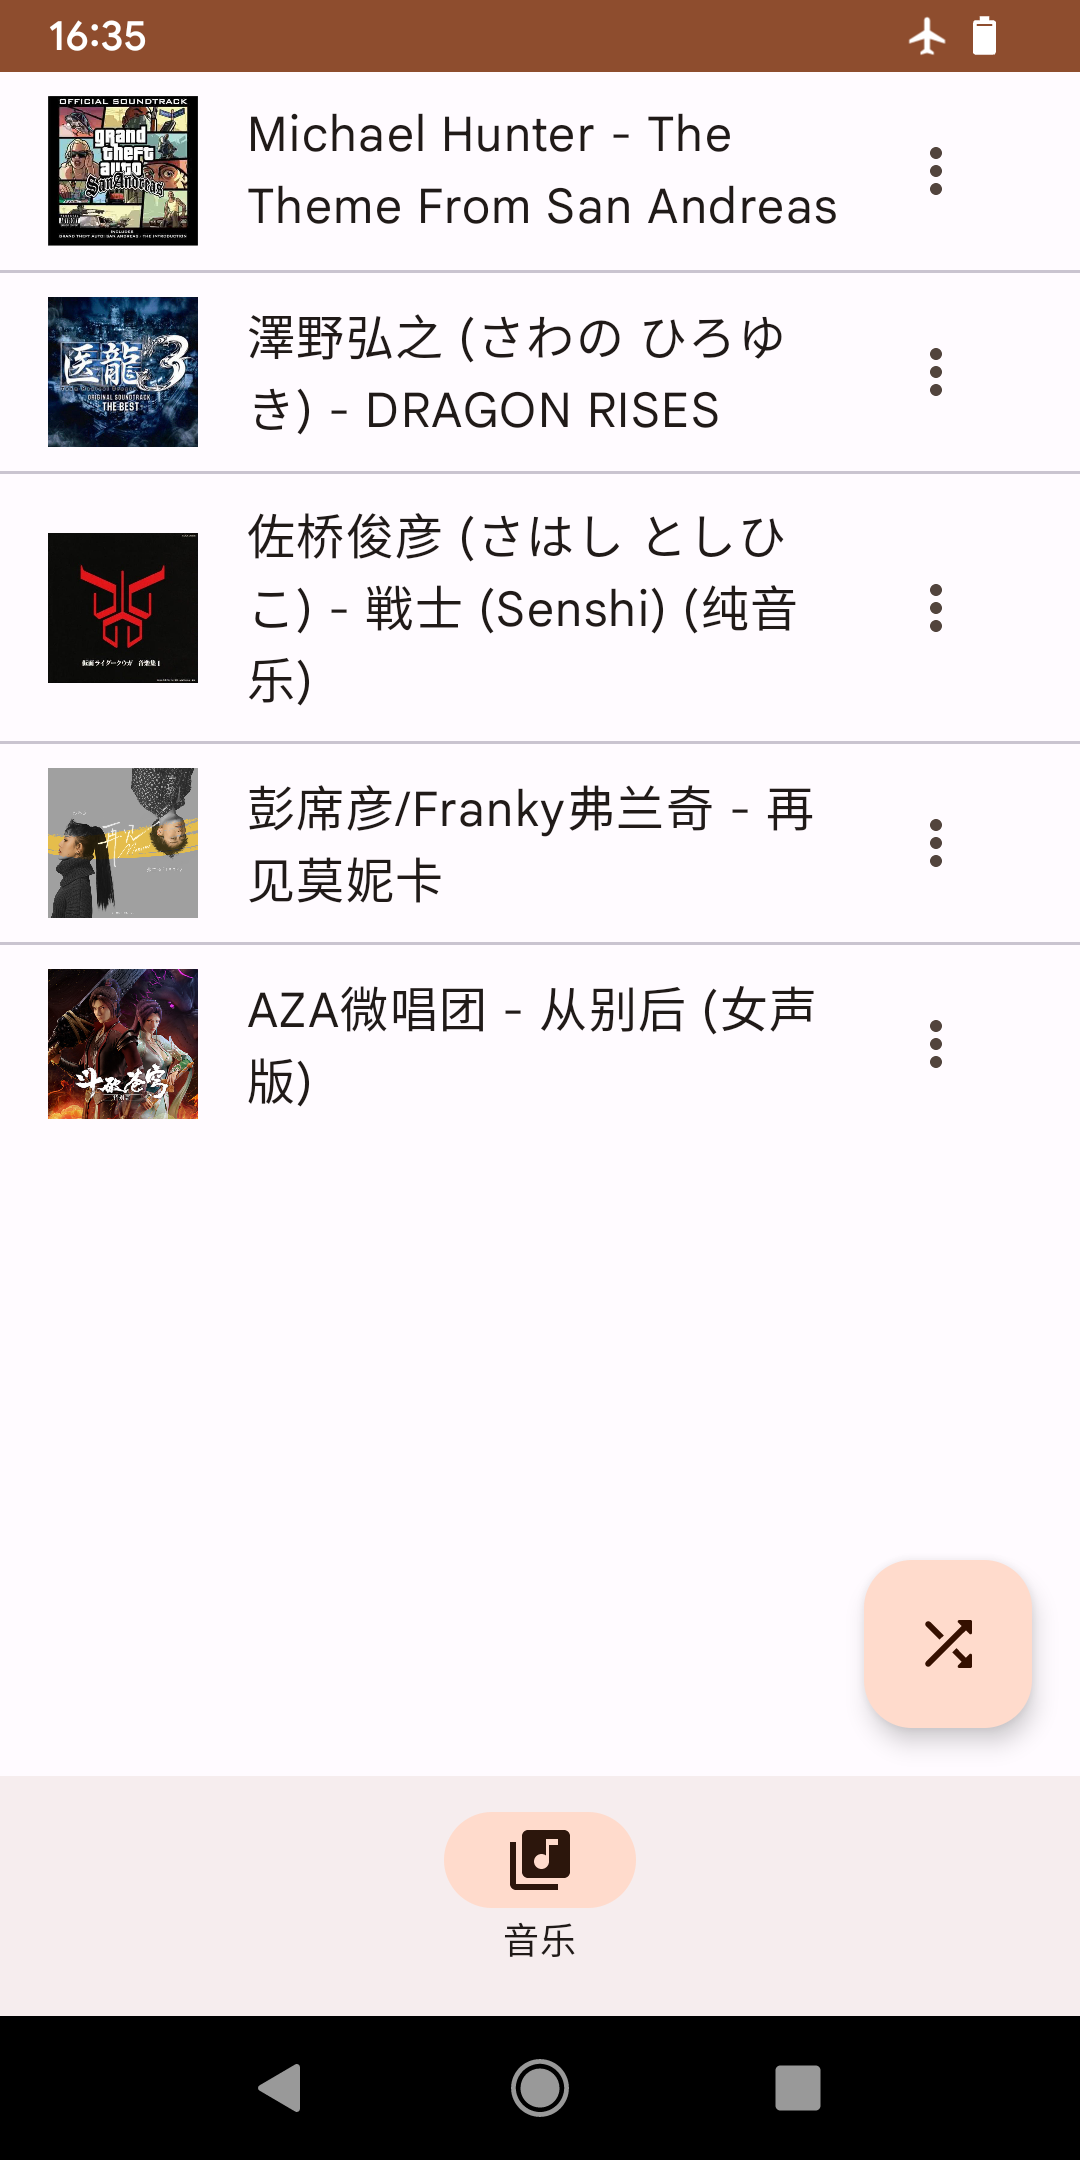
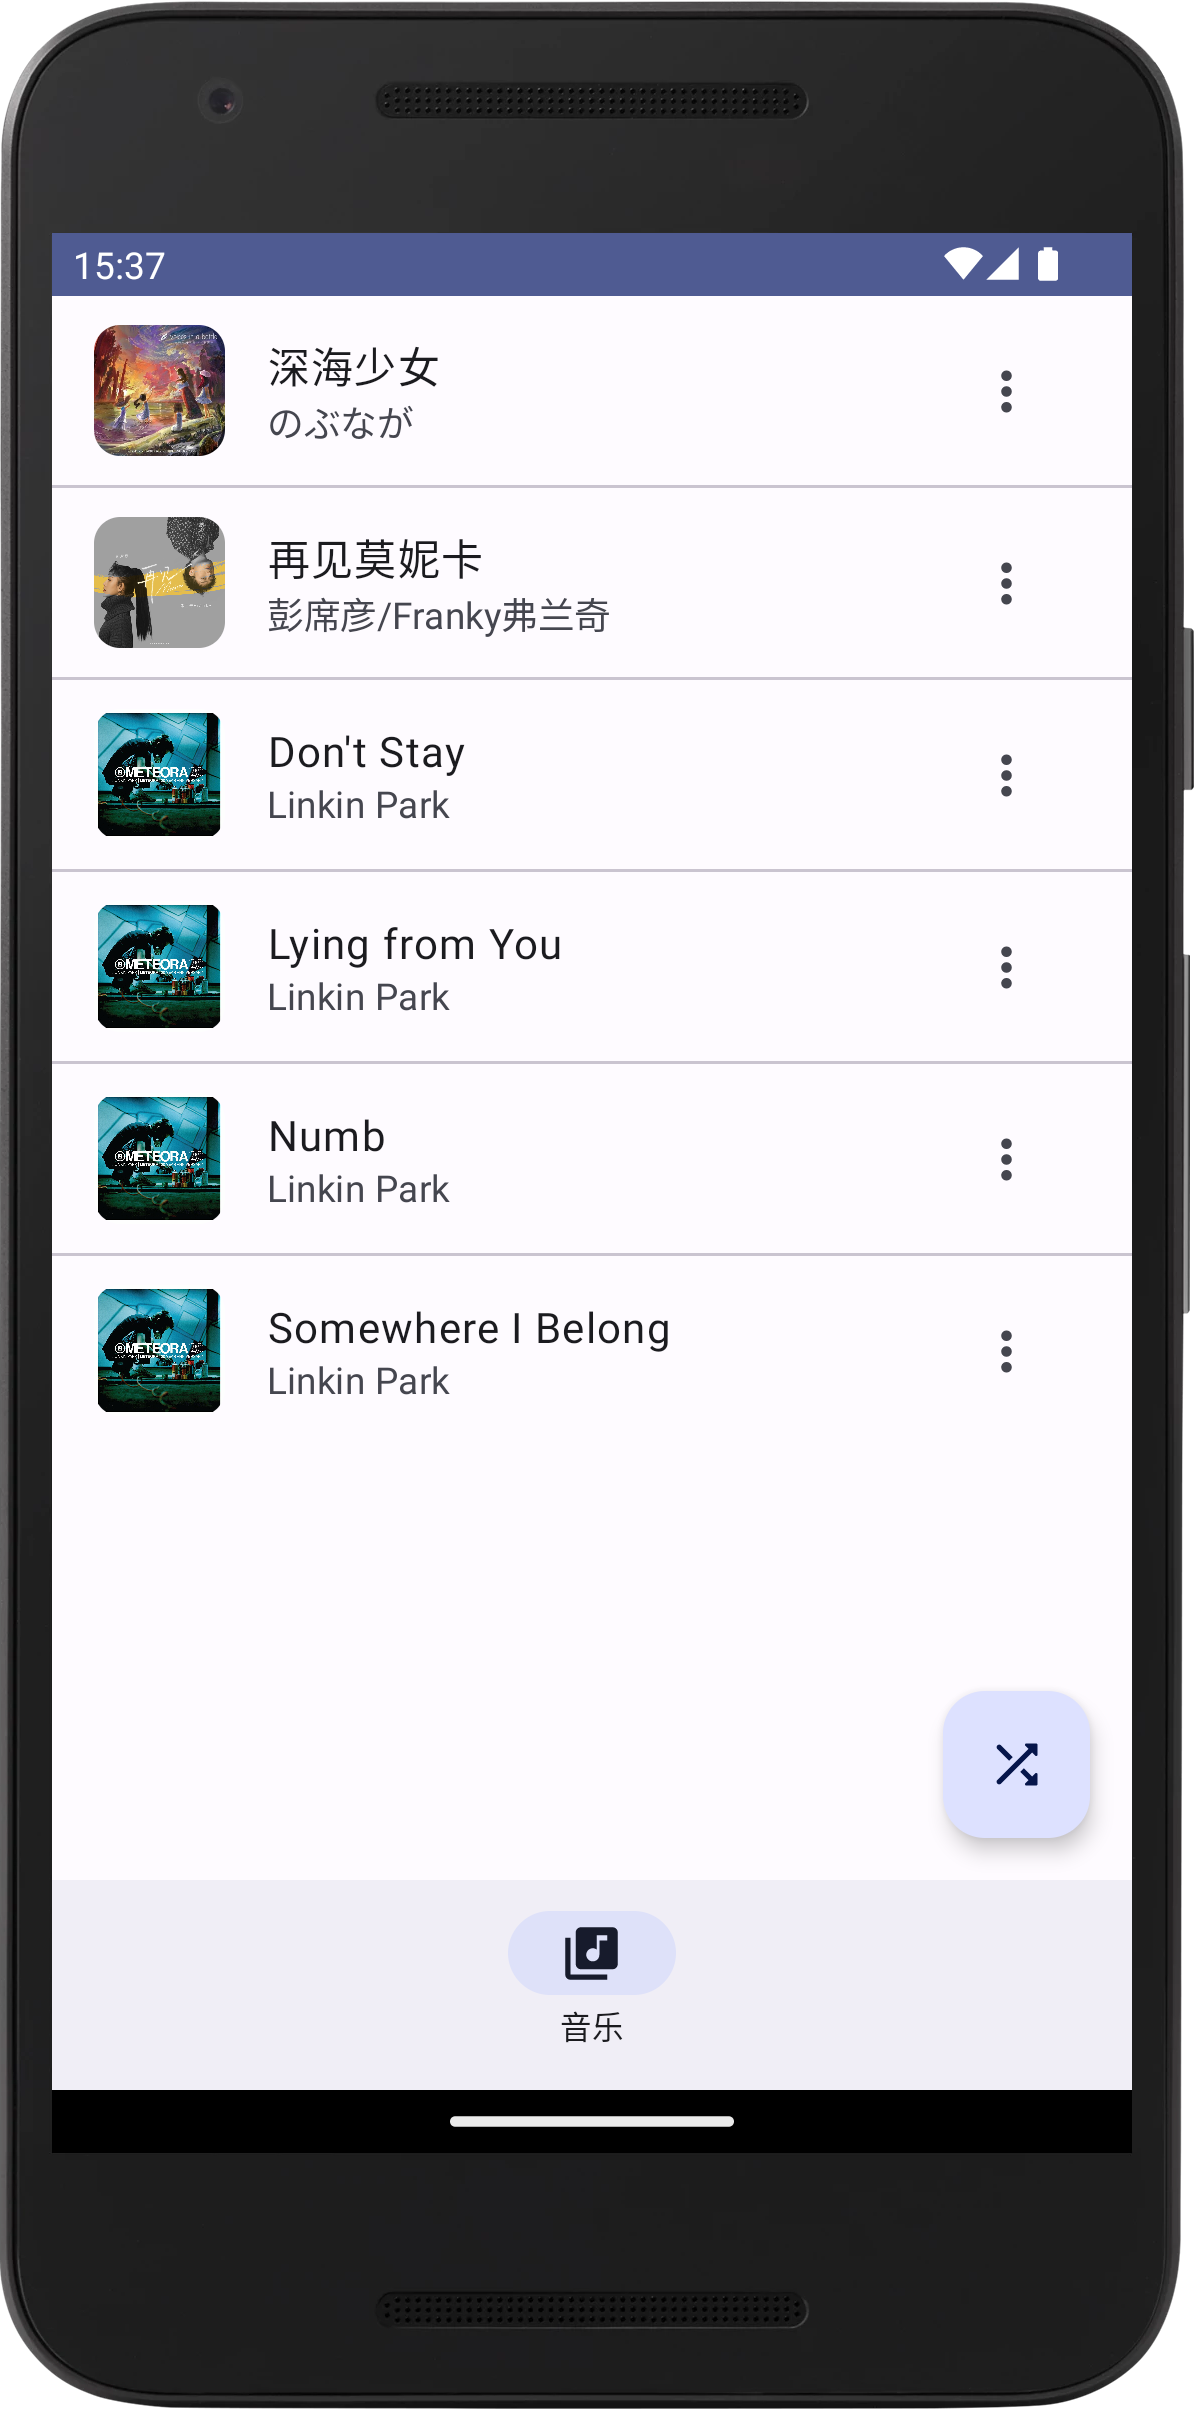
改用 ModalBottomSheet 来显示播放队列；其它一些细节调整；

diff --git a/app/src/main/java/com/risingsun/meteora_c/ui/MeteoraScaffold.kt b/app/src/main/java/com/risingsun/meteora_c/ui/MeteoraScaffold.kt
@@ -1,7 +1,6 @@
-package com.risingsun.meteora_c.ui.audio
+package com.risingsun.meteora_c.ui
 
 import androidx.compose.foundation.layout.padding
-import androidx.compose.material3.ExperimentalMaterial3Api
 import androidx.compose.material3.FloatingActionButton
 import androidx.compose.material3.Icon
 import androidx.compose.material3.Scaffold
@@ -19,8 +18,10 @@ import com.risingsun.meteora_c.data.Audio
 import com.risingsun.meteora_c.data.MeteoraNavigationBarItem
 import com.risingsun.meteora_c.data.NavigationScreen
 import com.risingsun.meteora_c.formattedToMMSS
+import com.risingsun.meteora_c.ui.audio.AudioListScreen
+import com.risingsun.meteora_c.ui.audio.AudioPlayScreen
+import com.risingsun.meteora_c.ui.audio.AudioViewModel
 
-@OptIn(ExperimentalMaterial3Api::class)
 @Composable
 fun MeteoraScaffold(
     navController: NavHostController,
@@ -31,30 +32,31 @@ fun MeteoraScaffold(
 ) {
     val currentBackStackEntry by navController.currentBackStackEntryAsState()
     val currentRoute = currentBackStackEntry?.destination?.route
-    Scaffold(bottomBar = {
-        if (currentRoute != NavigationScreen.AudioPlayScreen.route) {
-            MeteoraNavigationBar(
-                navController = navController, itemList = navigationBarItemList
-            )
-        }
-    }, floatingActionButton = {
-        if (currentRoute == NavigationScreen.AudioListScreen.route) {
-            FloatingActionButton(onClick = { playbackWithShuffleMode.invoke() }) {
-                Icon(
-                    painter = painterResource(id = R.drawable.round_shuffle_24),
-                    contentDescription = "随机播放"
+    Scaffold(
+        bottomBar = {
+            if (currentRoute != NavigationScreen.AudioPlayScreen.route) {
+                MeteoraNavigationBar(
+                    navController = navController,
+                    itemList = navigationBarItemList
                 )
             }
-        }
-    }) {
+        }, floatingActionButton = {
+            if (currentRoute == NavigationScreen.AudioListScreen.route) {
+                FloatingActionButton(onClick = { playbackWithShuffleMode.invoke() }) {
+                    Icon(
+                        painter = painterResource(
+                            id = R.drawable.round_shuffle_24
+                        ), contentDescription = "随机播放"
+                    )
+                }
+            }
+        }) {
         NavHost(
             navController = navController,
             startDestination = NavigationScreen.AudioListScreen.route,
             modifier = Modifier.padding(it)
         ) {
-            composable(
-                route = NavigationScreen.AudioListScreen.route
-            ) {
+            composable(route = NavigationScreen.AudioListScreen.route) {
                 AudioListScreen(audioList = audioList, onItemClick = { audio ->
                     audioViewModel.playAudio(audio)
                 }, onNavigateToPlayScreen = {
@@ -62,7 +64,8 @@ fun MeteoraScaffold(
                 })
             }
             composable(route = NavigationScreen.AudioPlayScreen.route) {
-                AudioPlayScreen(audio = audioViewModel.currentPlaying.value,
+                AudioPlayScreen(
+                    audio = audioViewModel.currentPlaying.value,
                     currentPlaybackPosition = audioViewModel.playbackPositionFormat,
                     sliderProgress = audioViewModel.currentAudioProgress.value,
                     onProgressChange = { progress ->
@@ -86,12 +89,8 @@ fun MeteoraScaffold(
                     openShuffleMode = { set ->
                         audioViewModel.setShuffleMode(set)
                     },
-                    navigateToQueueScreen = {
-                        navController.navigate(NavigationScreen.PlaybackQueueScreen.route)
-                    })
-            }
-            composable(route = NavigationScreen.PlaybackQueueScreen.route) {
-                PlaybackQueueScreen(audioViewModel.playbackQueue!!)
+                    playbackQueue = audioViewModel.playbackQueue!!
+                )
             }
         }
     }

diff --git a/app/src/main/java/com/risingsun/meteora_c/ui/audio/AudioPlayScreen.kt b/app/src/main/java/com/risingsun/meteora_c/ui/audio/AudioPlayScreen.kt
@@ -1,5 +1,6 @@
 package com.risingsun.meteora_c.ui.audio
 
+import android.support.v4.media.session.MediaSessionCompat
 import androidx.compose.foundation.Image
 import androidx.compose.foundation.layout.Arrangement
 import androidx.compose.foundation.layout.Column
@@ -9,11 +10,18 @@ import androidx.compose.foundation.layout.fillMaxWidth
 import androidx.compose.foundation.layout.padding
 import androidx.compose.foundation.layout.size
 import androidx.compose.foundation.shape.RoundedCornerShape
+import androidx.compose.material3.ExperimentalMaterial3Api
 import androidx.compose.material3.Icon
 import androidx.compose.material3.IconButton
+import androidx.compose.material3.ModalBottomSheet
 import androidx.compose.material3.Slider
 import androidx.compose.material3.Text
+import androidx.compose.material3.rememberModalBottomSheetState
 import androidx.compose.runtime.Composable
+import androidx.compose.runtime.getValue
+import androidx.compose.runtime.mutableStateOf
+import androidx.compose.runtime.saveable.rememberSaveable
+import androidx.compose.runtime.setValue
 import androidx.compose.ui.Alignment
 import androidx.compose.ui.Modifier
 import androidx.compose.ui.draw.clip
@@ -27,6 +35,7 @@ import androidx.compose.ui.unit.sp
 import com.risingsun.meteora_c.R
 import com.risingsun.meteora_c.data.Audio
 
+@OptIn(ExperimentalMaterial3Api::class)
 @Composable
 fun AudioPlayScreen(
     audio: Audio?,
@@ -42,7 +51,7 @@ fun AudioPlayScreen(
     onBack: () -> Unit,
     isShuffleModeOn: Boolean,
     openShuffleMode: (Boolean) -> Unit,
-    navigateToQueueScreen: () -> Unit
+    playbackQueue: List<MediaSessionCompat.QueueItem>
 ) {
     audio?.let { currentPlayAudio ->
         Column(modifier = Modifier.fillMaxSize()) {
@@ -160,14 +169,24 @@ fun AudioPlayScreen(
                         modifier = Modifier.size(40.dp)
                     )
                 }
+                var openBottomSheet by rememberSaveable { mutableStateOf(false) }
                 IconButton(
-                    onClick = { navigateToQueueScreen.invoke() }, modifier = Modifier.weight(1f)
+                    onClick = { openBottomSheet = !openBottomSheet },
+                    modifier = Modifier.weight(1f)
                 ) {
                     Icon(
                         painter = painterResource(id = R.drawable.round_queue_music_24),
                         contentDescription = "播放队列",
                         modifier = Modifier.size(30.dp)
                     )
+                }
+                if (openBottomSheet) {
+                    ModalBottomSheet(
+                        onDismissRequest = { openBottomSheet = false },
+                        sheetState = rememberModalBottomSheetState(skipPartiallyExpanded = true)
+                    ) {
+                        PlaybackQueueScreen(queue = playbackQueue)
+                    }
                 }
             }
         }

diff --git a/app/src/main/java/com/risingsun/meteora_c/ui/audio/AudioListScreen.kt b/app/src/main/java/com/risingsun/meteora_c/ui/audio/AudioListScreen.kt
@@ -1,9 +1,11 @@
 package com.risingsun.meteora_c.ui.audio
 
+import androidx.compose.foundation.Image
 import androidx.compose.foundation.clickable
 import androidx.compose.foundation.layout.size
 import androidx.compose.foundation.lazy.LazyColumn
 import androidx.compose.foundation.lazy.items
+import androidx.compose.foundation.shape.RoundedCornerShape
 import androidx.compose.material3.Divider
 import androidx.compose.material3.Icon
 import androidx.compose.material3.IconButton
@@ -11,30 +13,33 @@ import androidx.compose.material3.ListItem
 import androidx.compose.material3.Text
 import androidx.compose.runtime.Composable
 import androidx.compose.ui.Modifier
-import androidx.compose.ui.graphics.Color
+import androidx.compose.ui.draw.clip
 import androidx.compose.ui.graphics.asImageBitmap
 import androidx.compose.ui.res.painterResource
 import androidx.compose.ui.unit.dp
-import com.risingsun.meteora_c.R.*
+import com.risingsun.meteora_c.R.drawable
 import com.risingsun.meteora_c.data.Audio
 
 @Composable
 fun AudioListScreen(
-    audioList: List<Audio>, onItemClick: (Audio) -> Unit, onNavigateToPlayScreen: () -> Unit
+    audioList: List<Audio>,
+    onItemClick: (Audio) -> Unit,
+    onNavigateToPlayScreen: () -> Unit
 ) {
     LazyColumn {
         items(audioList) {
-            ListItem(headlineContent = { Text(text = "${it.artist} - ${it.title}") },
+            ListItem(
+                headlineContent = { Text(text = it.title, maxLines = 1) },
                 modifier = Modifier.clickable {
-                    onItemClick.invoke(it)
-                    onNavigateToPlayScreen.invoke()
+                    onItemClick(it)
+                    onNavigateToPlayScreen()
                 },
+                supportingContent = { Text(text = it.artist, maxLines = 1) },
                 leadingContent = {
-                    Icon(
+                    Image(
                         bitmap = it.albumCover.asImageBitmap(),
                         contentDescription = "专辑封面",
-                        modifier = Modifier.size(50.dp, 50.dp),
-                        tint = Color.Unspecified
+                        modifier = Modifier.size(50.dp).clip(RoundedCornerShape(10.dp))
                     )
                 },
                 trailingContent = {

diff --git a/app/src/main/java/com/risingsun/meteora_c/ui/audio/PlaybackQueueScreen.kt b/app/src/main/java/com/risingsun/meteora_c/ui/audio/PlaybackQueueScreen.kt
@@ -1,21 +1,29 @@
 package com.risingsun.meteora_c.ui.audio
 
 import android.support.v4.media.session.MediaSessionCompat.QueueItem
+import androidx.compose.foundation.clickable
+import androidx.compose.foundation.layout.Arrangement
+import androidx.compose.foundation.layout.Row
 import androidx.compose.foundation.layout.fillMaxSize
+import androidx.compose.foundation.layout.fillMaxWidth
 import androidx.compose.foundation.lazy.LazyColumn
 import androidx.compose.foundation.lazy.items
-import androidx.compose.material3.ExperimentalMaterial3Api
 import androidx.compose.material3.ListItem
 import androidx.compose.material3.Text
 import androidx.compose.runtime.Composable
 import androidx.compose.ui.Modifier
+import androidx.compose.ui.unit.sp
 
-@OptIn(ExperimentalMaterial3Api::class)
 @Composable
 fun PlaybackQueueScreen(queue: List<QueueItem>) {
+    Row(modifier = Modifier.fillMaxWidth(), horizontalArrangement = Arrangement.Center) {
+        Text(text = "播放队列", fontSize = 24.sp)
+    }
     LazyColumn(modifier = Modifier.fillMaxSize()) {
         items(queue) {
-            ListItem(headlineContent = { Text(text = "${it.description.title}") })
+            ListItem(
+                headlineContent = { Text(text = "${it.description.title}") },
+                modifier = Modifier.clickable { })
         }
     }
 }

diff --git a/app/src/main/java/com/risingsun/meteora_c/MainActivity.kt b/app/src/main/java/com/risingsun/meteora_c/MainActivity.kt
@@ -16,7 +16,7 @@ import com.risingsun.meteora_c.data.MeteoraNavigationBarItem
 import com.risingsun.meteora_c.data.NavigationScreen
 import com.risingsun.meteora_c.ui.PermissionRequestScreen
 import com.risingsun.meteora_c.ui.audio.AudioViewModel
-import com.risingsun.meteora_c.ui.audio.MeteoraScaffold
+import com.risingsun.meteora_c.ui.MeteoraScaffold
 import com.risingsun.meteora_c.ui.theme.MeteoraCTheme
 import dagger.hilt.android.AndroidEntryPoint
 import java.util.*

diff --git a/app/src/main/java/com/risingsun/meteora_c/data/NavigationScreen.kt b/app/src/main/java/com/risingsun/meteora_c/data/NavigationScreen.kt
@@ -3,5 +3,4 @@ package com.risingsun.meteora_c.data
 sealed class NavigationScreen(val route: String) {
     object AudioListScreen : NavigationScreen("audio_list_screen")
     object AudioPlayScreen : NavigationScreen("audio_play_screen")
-    object PlaybackQueueScreen : NavigationScreen("playback_queue_screen")
 }

diff --git a/app/src/main/java/com/risingsun/meteora_c/ui/MeteoraNavigationBar.kt b/app/src/main/java/com/risingsun/meteora_c/ui/MeteoraNavigationBar.kt
@@ -1,4 +1,4 @@
-package com.risingsun.meteora_c.ui.audio
+package com.risingsun.meteora_c.ui
 
 import androidx.compose.material3.NavigationBar
 import androidx.compose.material3.NavigationBarItem

diff --git a/README.md b/README.md
@@ -11,5 +11,5 @@
 ## Screenshots
 
 | ![音乐列表](Screenshots/Music_list.png) | ![播放界面](Screenshots/Player.png) |
-|-------------------------------------|---------------------------------|
-| 音乐列表                                | 播放界面                            |
+|:-----------------------------------:|:-------------------------------:|
+|                音乐列表                 |              播放界面               |
